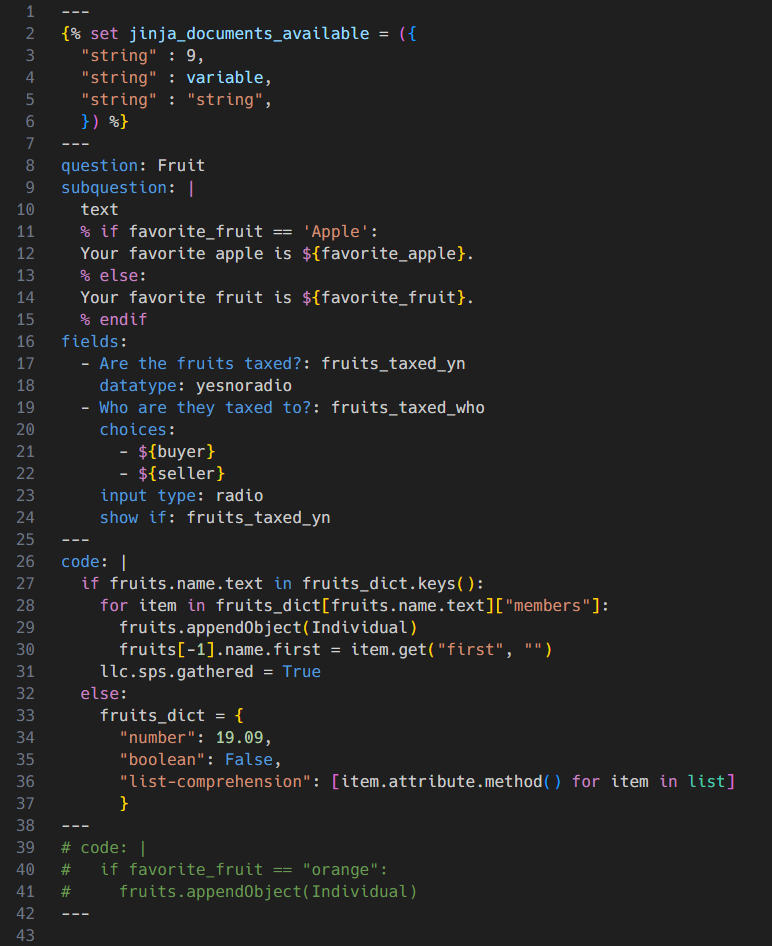
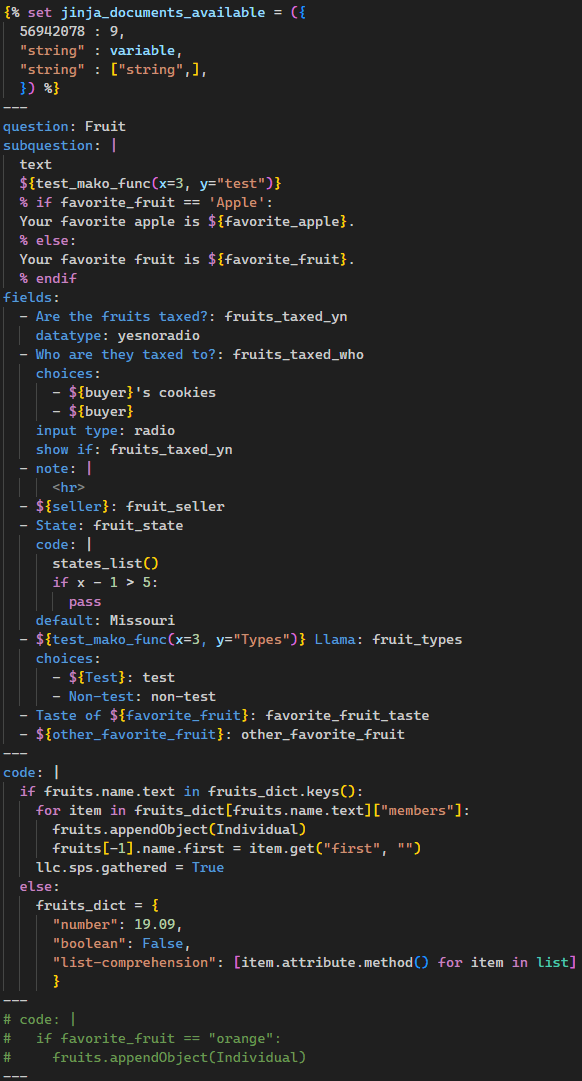
chore: updated demo image and changelog

diff --git a/vscode/CHANGELOG.md b/vscode/CHANGELOG.md
@@ -1,7 +1,7 @@
 # Changelog
 
 ## 0.3.3 (2025-02-18)
-Updated this CHANGELOG since I missed it in the process of trying to get this thing published.
+Updated the demo image to show more variety and updated this CHANGELOG since I missed it before.
 
 ## 0.3.2 (2025-02-18)
 Fixed an issue with node modules being included in the extension package. Cleaned up a lot of other dependencies and garbage.